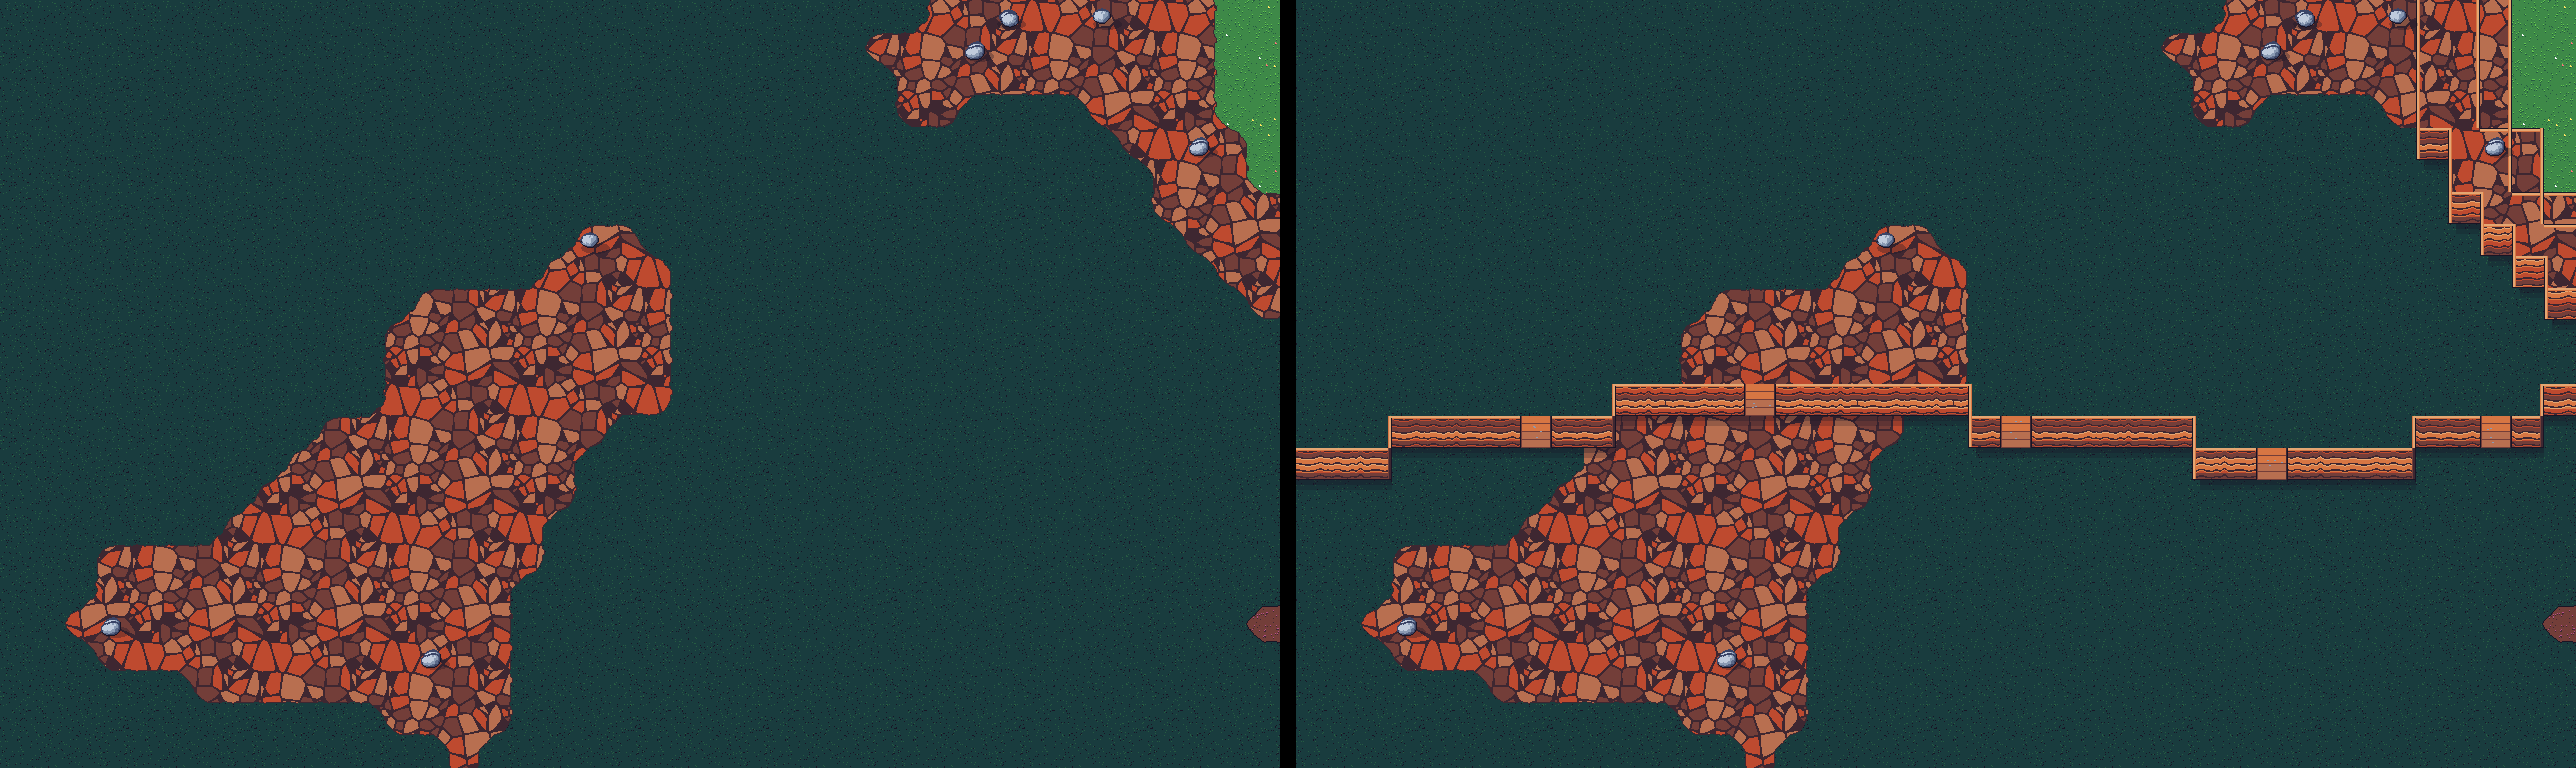
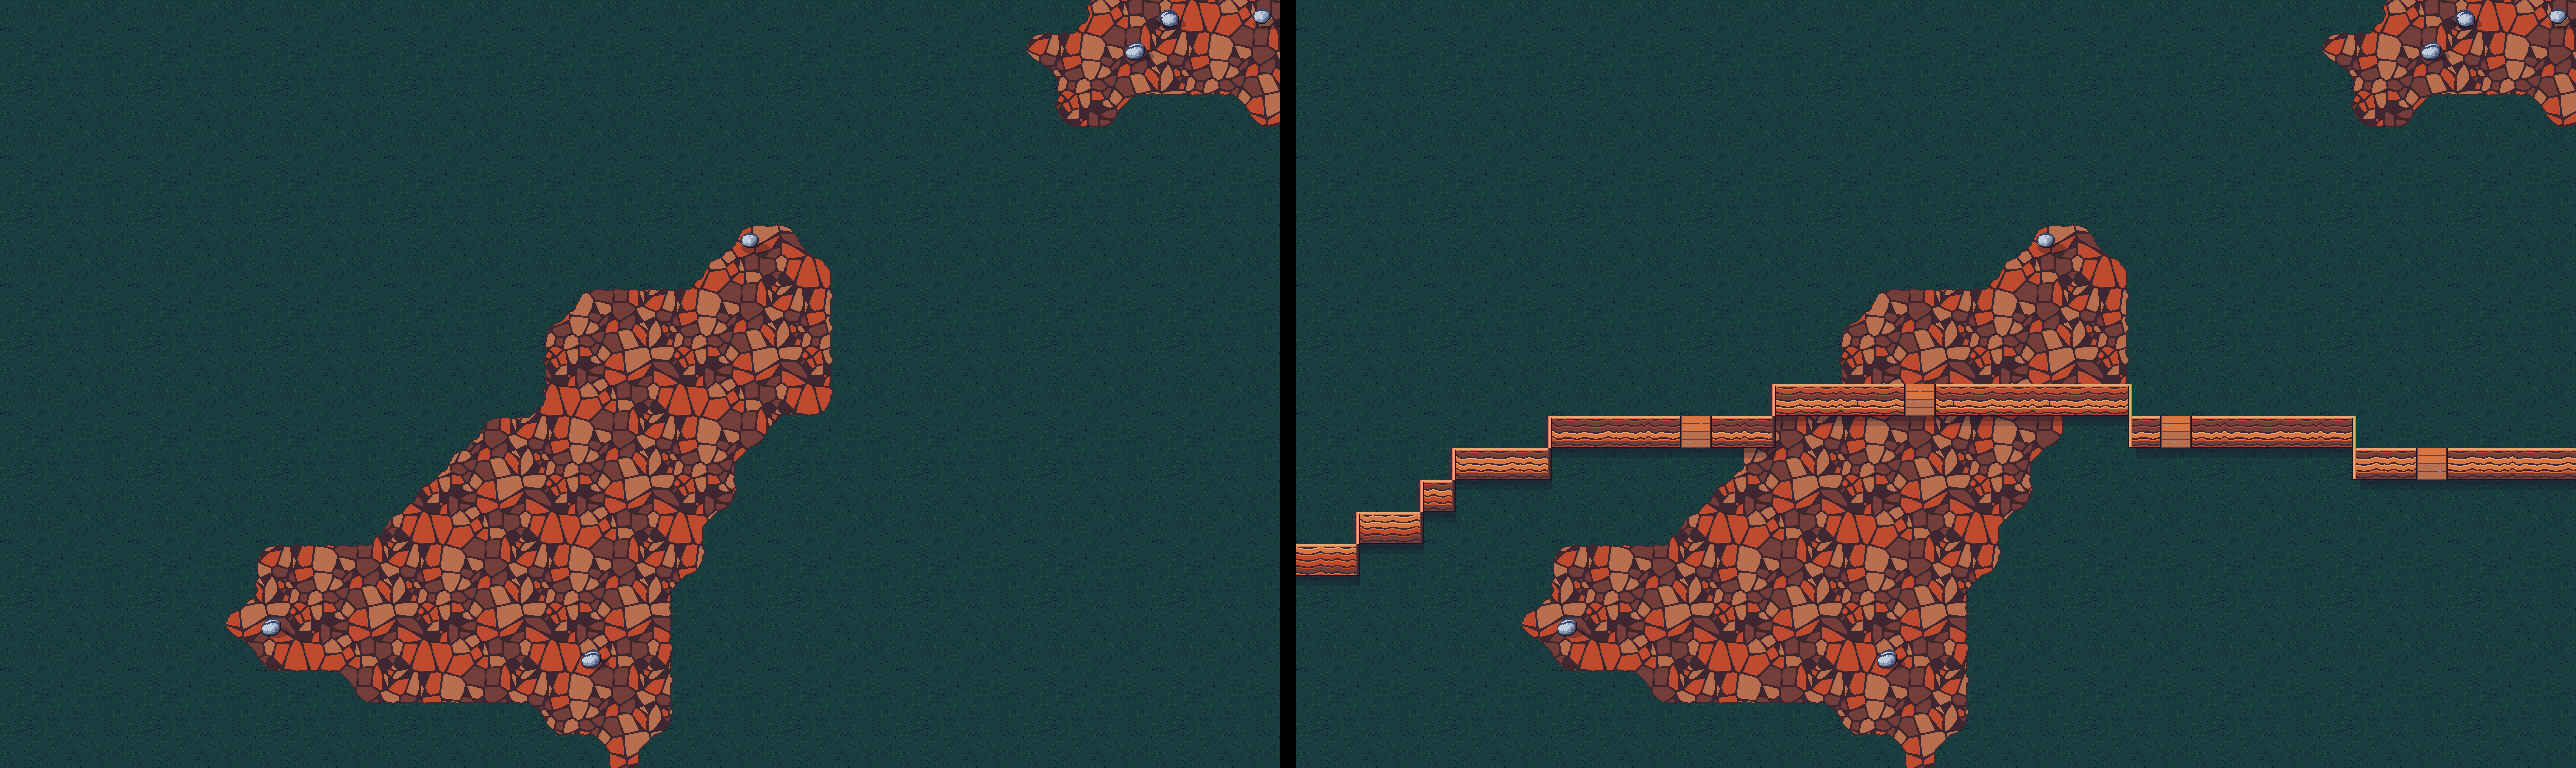
Trono del Gigante sulla vetta delle Marche: rocca, salita, trono, spade e stendardi
Claude-Session: https://claude.ai/code/session_014ycMSkFAn8ixUvbSfrqtAR

diff --git a/tools/art/build_world.py b/tools/art/build_world.py
@@ -795,6 +795,7 @@ def genera(seed):
     w.objects = [o for o in dirada(sorted(w.objects, key=lambda o: o["y"]))
                  if not (o["type"] in ("tree", "rock", "ossa") and ciglio[int(o["y"]), int(o["x"])])]
     w.sentieri = sentieri(w, strade, list(luoghi.values()) + list(villaggi.values()), faccia)
+    w.sentieri += trono_sulla_vetta(w, luoghi, strade, faccia, mc, seed)
     return w, luoghi, villaggi, sotto
 
 
@@ -867,6 +868,71 @@ def sentieri(w, strade, punti, faccia):
     w.objects = [o for o in w.objects
                  if not (o["type"] in ("tree", "rock", "ossa") and margine[int(o["y"]), int(o["x"])])]
     return fatti
+
+
+def trono_sulla_vetta(w, luoghi, strade, faccia, mc, seed):
+    """Decisione 2026-10-20: il Trono del Gigante sta sulla vetta delle Marche (prima: il punto piu' alto della formula,
+    cioe' l'angolo della mappa). Vetta = gradone piu' alto, ad almeno 40 caselle dal bordo della mappa e 4 dai suoi
+    salti, nel punto piu' in rilievo. Spiazzo di arenaria, sentiero dalla strada o dal sentiero piu' vicino (scale dove
+    attraversa una parete), il trono e ai piedi spade e stendardi. Dopo tutto il resto: il mondo approvato non cambia
+    (si tolgono solo alberi, rocce e ossa sotto il sentiero e lo spiazzo)."""
+    g, alt, pas = w.ground, w.alt, w.pas
+    lontano_bordo = (XX >= 40) & (XX < W - 40) & (YY >= 40) & (YY < H - 40)
+    z = mc & lontano_bordo
+    cima = z & (alt == alt[z].max())
+    salto = np.zeros((H, W), bool)
+    for sy, sx in ((1, 0), (-1, 0), (0, 1), (0, -1)):
+        salto |= sposta(alt, sy, sx, -9) != alt
+    dentro = cima & ~ispessisci(salto | faccia, 4)
+    rilievo = sfuma(w.elev.astype(float), 6)
+    y, x = np.unravel_index(int(np.argmax(np.where(dentro, rilievo, -np.inf))), (H, W))
+    spostato = LAYOUT["spostati"].get("luoghi", {}).get("trono_del_gigante")   # il tavolo tattico vince sulla vetta
+    if spostato:
+        x, y = int(spostato[0]), int(spostato[1])
+    vetta = (int(x), int(y))
+    luoghi["trono_del_gigante"] = vetta
+    spiazzo = disco(x, y, 4.5) & cima & ~faccia
+    g[spiazzo] = L["arenaria"]
+    # salita: dalla casella di strada o sentiero piu' vicina nelle Marche; le pareti si passano con una scala
+    rete = [tuple(c) for p in strade + w.sentieri for c in p if mc[c[1], c[0]]]
+    da = min(rete, key=lambda c: (c[0] - x) ** 2 + (c[1] - y) ** 2)
+    dritti = np.isin(g, [ORDER.index(n) for n in ORDER if TERRAINS[n].get("bordo") == "dritto"])
+    costo = 1.0 + 60.0 * dritti + 25.0 * faccia
+    costo[np.isin(g, [L["water"], L["deep_water"]])] = 1e4
+    q = astar(costo, da, vetta)
+    for cx, cy in q:
+        if faccia[cy, cx]:
+            pas[cy, cx] = "S"
+        elif not (dritti[cy, cx] or spiazzo[cy, cx] or g[cy, cx] == L["lastricato_antico"]):
+            g[cy, cx] = L["path"]
+    # la cima si alza di un livello: una rocca con pareti di arenaria, e una scala dove arriva il sentiero
+    alt[spiazzo] += 1
+    w.mat_par[spiazzo] = "arenaria"
+    faccia_nuova = maschera_pareti(alt, w.mat_par) & ~faccia
+    for cx, cy in q:
+        if faccia_nuova[cy, cx]:
+            pas[cy, cx] = "S"
+    libero = spiazzo.copy()
+    for cx, cy in q:
+        libero[max(0, cy - 1):cy + 2, max(0, cx - 1):cx + 2] = True
+    libero = ispessisci(libero, 1)
+    w.objects = [o for o in w.objects if not (o["type"] in ("tree", "rock", "ossa") and libero[int(o["y"]), int(o["x"])])]
+    # trono e, ai piedi, spade piantate e due stendardi (fuori dal sentiero)
+    rnd = np.random.RandomState(seed + 341)
+    nuovi = [{"type": "trono", "x": x + .5, "y": y + .2, "seed": 1}]
+    sentiero = np.zeros((H, W), bool)
+    for cx, cy in q:
+        sentiero[cy, cx] = True
+    sentiero = ispessisci(sentiero, 1)
+    for i in range(14):
+        a_, d_ = rnd.uniform(0, 2 * np.pi), rnd.uniform(3.0, 7.5)
+        sx_, sy_ = x + .5 + np.cos(a_) * d_, y + .5 + np.sin(a_) * d_ * 0.8
+        if cima[int(sy_), int(sx_)] and not (sentiero | faccia_nuova)[int(sy_), int(sx_)] and abs(sx_ - x - .5) > 1.5:
+            nuovi.append({"type": "spada", "x": sx_, "y": sy_, "seed": int(rnd.randint(8))})
+    for sx_ in (-3.2, 3.4):
+        nuovi.append({"type": "stendardo", "x": x + .5 + sx_, "y": y + 1.6, "seed": int(rnd.randint(4))})
+    w.objects = sorted(w.objects + nuovi, key=lambda o: o["y"])
+    return [[list(map(int, c)) for c in q]]
 
 
 def cerchio_irregolare(g, cx, cy, r, t, fuori, ok, nome):

diff --git a/tools/art/forge3d/creatures.py b/tools/art/forge3d/creatures.py
@@ -278,6 +278,54 @@ def tree(kind="oak", seed=1, leaf="leaf", trunk="bark", size=1.0, name=None):
     return r
 
 
+def trono(seed=1, size=1.0):
+    """Trono del Gigante (concept marche/trono): blocchi di roccia squadrati e un po' storti, schienale altissimo,
+    braccioli, gradini rotti alla base. Guarda +y."""
+    rnd = random.Random(seed)
+    r = Rig(f"trono_{seed}"); r.scale = size
+    r.joint("t", "root", (0, 0, 0))
+    def blocco(dim, pos, mat="stone"):
+        r.part("t", "box", dim, pos, mat=mat, rot=(rnd.uniform(-3, 3), rnd.uniform(-3, 3), rnd.uniform(-4, 4)))
+    blocco((13, 10, 1.6), (0, 1.5, 1.6))                          # gradini
+    blocco((11, 8, 1.4), (0, 0.5, 4.4))
+    blocco((9, 6.5, 3.2), (0, -0.5, 8.6))                         # seduta
+    blocco((9, 2.6, 13), (0, -6.4, 18), "stone")                  # schienale altissimo
+    blocco((5, 2.2, 5), (-4.5, -6.6, 33.5))                       # cima spezzata, piu' alta a sinistra
+    blocco((3.4, 2.2, 3), (4.6, -6.4, 30.5))
+    for sx in (-1, 1):                                            # braccioli
+        blocco((2.4, 6, 4.2), (sx * 10.2, -0.8, 13.5))
+    for k in range(6):                                            # macerie attorno
+        a = rnd.uniform(0, 2 * math.pi)
+        d = rnd.uniform(11, 15)
+        s_ = rnd.uniform(1.0, 2.2)
+        blocco((s_, s_, s_ * 0.8), (math.cos(a) * d, math.sin(a) * d * 0.7, s_ * 0.6), "stone_light")
+    return r
+
+
+def spada(seed=1, size=1.0):
+    """Spada piantata nel terreno, un po' inclinata (concept marche: campo di battaglia, piedi del trono)."""
+    rnd = random.Random(seed)
+    r = Rig(f"spada_{seed}"); r.scale = size
+    r.joint("s", "root", (0, 0, 0), rest=(rnd.uniform(-18, 18), rnd.uniform(-18, 18), rnd.uniform(0, 180)))
+    r.part("s", "box", (0.25, 0.9, 5.0), (0, 0, 4.2), mat="steel")
+    r.part("s", "box", (0.5, 2.6, 0.45), (0, 0, 9.4), mat="iron")          # guardia
+    r.part("s", "cylinder", (0.45, 0.45, 1.4), (0, 0, 11.2), mat="leather_dark")
+    r.part("s", "ellipsoid", (0.6, 0.6, 0.6), (0, 0, 12.8), mat="iron")    # pomo
+    return r
+
+
+def stendardo(seed=1, size=1.0, mat="cloth_red"):
+    """Asta storta con un drappo strappato (concept marche/trono)."""
+    rnd = random.Random(seed)
+    r = Rig(f"stendardo_{seed}"); r.scale = size
+    r.joint("a", "root", (0, 0, 0), rest=(rnd.uniform(-8, 8), rnd.uniform(-10, 10), rnd.uniform(0, 180)))
+    r.part("a", "cylinder", (0.35, 0.35, 9.0), (0, 0, 9.0), mat="wood")
+    r.part("a", "cone", (0.5, 0.5, 0.8), (0, 0, 18.6), mat="iron")
+    for k, (lung, z) in enumerate(((3.4, 15.5), (2.6, 13.8), (1.8, 12.3))):   # strisce sempre piu' corte: strappato
+        r.part("a", "box", (0.12, lung, 0.8), (0, lung + 0.3, z), mat=mat, rot=(rnd.uniform(-6, 6), 0, 0))
+    return r
+
+
 def ossa(seed=1, size=1.0):
     """Ossa nella sabbia delle Marche: un teschio di bestia e qualche costola."""
     rnd = random.Random(seed)

diff --git a/tools/art/forge3d/worldrender.py b/tools/art/forge3d/worldrender.py
@@ -2,7 +2,7 @@
 import numpy as np
 from PIL import Image
 
-from .creatures import bush, ossa, rock, tree
+from .creatures import bush, ossa, rock, spada, stendardo, tree, trono
 from .engine import render
 from .terrain import ORDER, TILE, build_atlas, compose_ground
 
@@ -29,6 +29,15 @@ def object_sprite(o, S=TILE):
     elif t == "ossa":
         r = ossa(o["seed"], size=2.6 * k)
         cw, ch, foot = int(64 * k), int(48 * k), 0.75
+    elif t == "trono":                                    # Trono del Gigante: alto ~4,5 tile, sulla vetta delle Marche
+        r = trono(o["seed"], size=3.8 * k)
+        cw, ch, foot = int(224 * k), int(256 * k), 0.84
+    elif t == "spada":
+        r = spada(o["seed"], size=2.2 * k)
+        cw, ch, foot = int(48 * k), int(56 * k), 0.8
+    elif t == "stendardo":
+        r = stendardo(o["seed"], size=2.6 * k)
+        cw, ch, foot = int(64 * k), int(80 * k), 0.85
     elif t == "scoglio":                                  # roccia nel mare: schiuma alla base, niente ombra a terra
         r = rock(o["seed"], "stone", size=2.6 * o.get("size", 1.0) * k, moss=False)
         cw, ch, foot = int(96 * k), int(72 * k), 0.75

diff --git a/CLAUDE.md b/CLAUDE.md
@@ -294,6 +294,8 @@ Fase 9 (opzionale): Pathway Non-Standard, avanzamento per Boon.
   concept** (`assets/concept/regioni/`) per atmosfera, colori, forme e oggetti, anche se serve rifare tutto. La vista
   resta top-down 3/4: "identica" vuol dire stessi colori, luci, forme e luoghi, non la stessa inquadratura.
   Le due modalità sono due insiemi di asset generati dallo stesso generatore (rampe diverse), mai PNG ritoccati.
+  La difficile cambia **anche il gioco** (numeri in un file dati, mai nel codice) e si sceglie **a inizio partita**:
+  resta fissa e va nel salvataggio.
 - **Frontiera delle Porte** (2026-10-20): isole sospese in un **vuoto di nebbia**, non un'isola nel mare (cambia la
   forma approvata). Le strade d'asfalto con le strisce **sono volute**: sono la stranezza della Frontiera.
 - **Trono del Gigante** (2026-10-20): va sulla **vetta** più alta delle Marche, con salita, spade e stendardi ai piedi.
